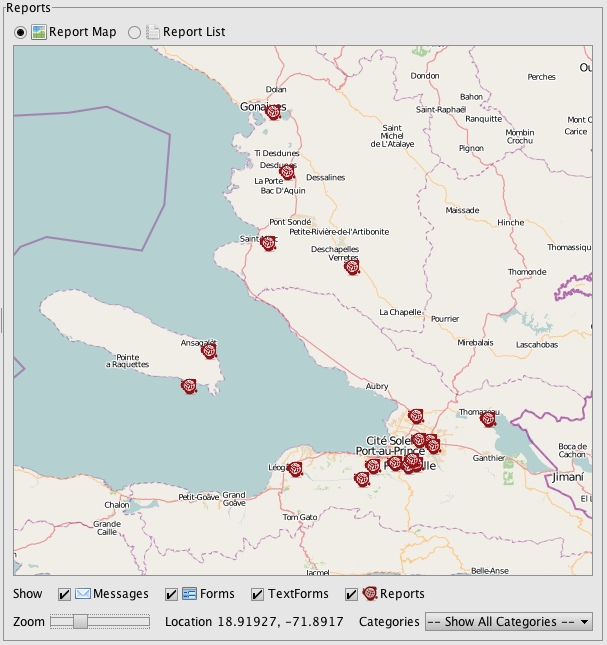
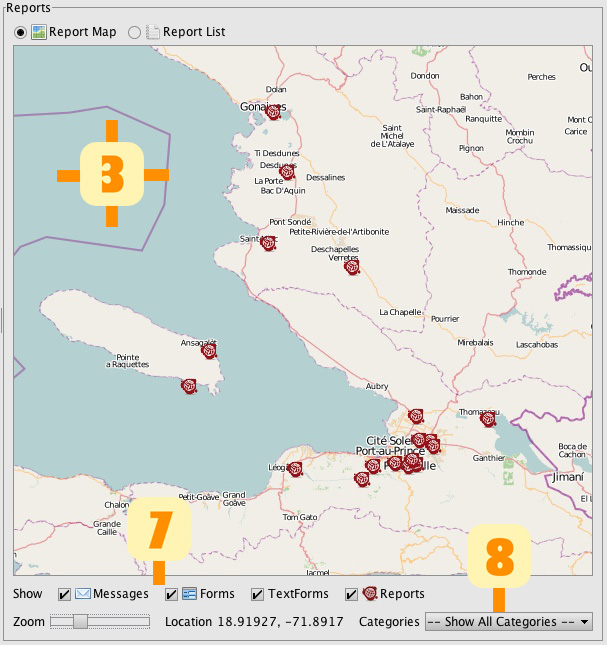
Updated help document images

Changed region(s): [[0.089, 0.186, 0.2965, 0.3721], [0.2076, 0.7442, 0.3262, 0.9302], [0.771, 0.8062, 0.8896, 0.9612]]

diff --git a/help/mapping.htm b/help/mapping.htm
@@ -38,7 +38,7 @@
 			
 			<h2>Mapping Setup</h2>
 			<h3>
-				The Mapping Setup dialog provides options for the four main components: Mapping, Ushahidi, Forms and TextForms.
+				The Mapping Setup dialog <span class="reference">1</span> provides options for the four main components: Mapping, Ushahidi, Forms and TextForms.
 			</h3>
 			<img border="0" src="img/mapping-setup.jpg" vspace="5">
 			
@@ -82,7 +82,7 @@
 		
 			<h2>Mapping Synchronization</h2>
 			<h3>
-				Clicking the Synchronize button will trigger the synchronization process with the current default Ushahidi deployment.
+				Clicking the Synchronize button <span class="reference">2</span> will trigger the synchronization process with the current default Ushahidi deployment.
 				The process will download the associated categories, locations and incidents for that deployment, as well as upload any
 				incident reports that were created locally.
 			</h3>
@@ -93,33 +93,34 @@
 				
 			<h2>Report Map</h2>
 			<h3>
-				The Report Map shows the location of Message, Forms and TextForms according to their sender's default location, as well as the exact location of Ushahidi incident reports. Note, double clicking any of these map icons will show the details popup with additional information.
+				The Report Map <span class="reference">3</span> shows the location of Message, Forms and TextForms according to their sender's default location, as well as the exact location of Ushahidi incident reports. Note, double clicking any of these map icons will show the details popup with additional information.
 			</h3>
 			<img border="0" src="img/mapping-map.jpg" vspace="5">
 			<h3>
+				The map options section <span class="reference">7</span> allows you to toggle visibility of map icons, change map zoom level and filter by category.
 				<ul>
 					<li><span class="highlight">Show</span> - the Messages, Forms, TextForms and Reports checkboxes toggle the visibility of the map icons</li>
 					<li><span class="highlight">Zoom</span> - the Zoom slider changes the map zoom level</li>
 					<li><span class="highlight">Location</span> - label showing the latitude and longitude for current mouse position</li>
-					<li><span class="highlight">Categories</span> - combobox to show reports for All Categories or just a specific category</li>
+					<li><span class="highlight">Categories</span> - combobox <span class="reference">8</span> to show reports for All Categories or just a specific category</li>
 				</ul>
 			</h3>
 			
 			<h2>Report List</h2>
 			<h3>
-				The Report List shows a table of Ushahidi incident report information. Note, double clicking a table row will show a modal popup with that report's details.
+				The Report List <span class="reference">4</span> shows a table of Ushahidi incident report information. Note, double clicking a table row will show a modal popup with that report's details.
 			</h3>
 			<img border="0" src="img/mapping-list.jpg" vspace="5">
 			<h3>
 				<ul>
 					<li><span class="highlight">Search</span> - the search box allows fast filtering of incident reports</li>
-					<li><span class="highlight">Categories</span> - combobox to show reports for All Categories or just a specific category</li>
+					<li><span class="highlight">Categories</span> - combobox <span class="reference">8</span> to show reports for All Categories or just a specific category</li>
 				</ul>
 			</h3>
 			
 			<h2>Report Details</h2>
 			<h3>
-				Double clicking a map icon or a table row will show a modal popup allowing you to see more information about that Report, Form or Message.
+				Double clicking a map icon <span class="reference">3</span> or a table row <span class="reference">4</span> will show a Incident Report dialog <span class="reference">9</span> allowing you to see more information about that Report, Form or Message.
 			</h3>	
 			<img border="0" src="img/mapping-report-details.jpg" vspace="5">
 			
@@ -130,7 +131,7 @@
 				For example, you might want to set a hospital worker's default location to their hospital so their incoming messages can be automatically mapped.
 			</h3>
 			<h3>
-				Double clicking a contact from the list will allow you to select an Existing Location.
+				Double clicking a contact from the list will show Contact Location dialog <span class="reference">6</span> allow you to select an Existing Location.
 			</h3>
 			<img border="0" src="img/mapping-contact-existing-location.jpg" vspace="5">
 			<h3>
@@ -141,7 +142,7 @@
 			<h2>Messages</h2>
 			<h3>
 				The Mapping plugin allows you to turn any incoming SMS message into an Ushahidi incident report. 
-				Simply, double click a message from the list and a new incident report dialog is created pre-populated 
+				Simply, double click a message from the list <span class="reference">5</span> and a new Incident Report dialog <span class="reference">9</span> is created pre-populated 
 				with the SMS message text, sender name and the current time.
 			</h3>
 			<img border="0" src="img/mapping-message-new-report.jpg" vspace="5">
